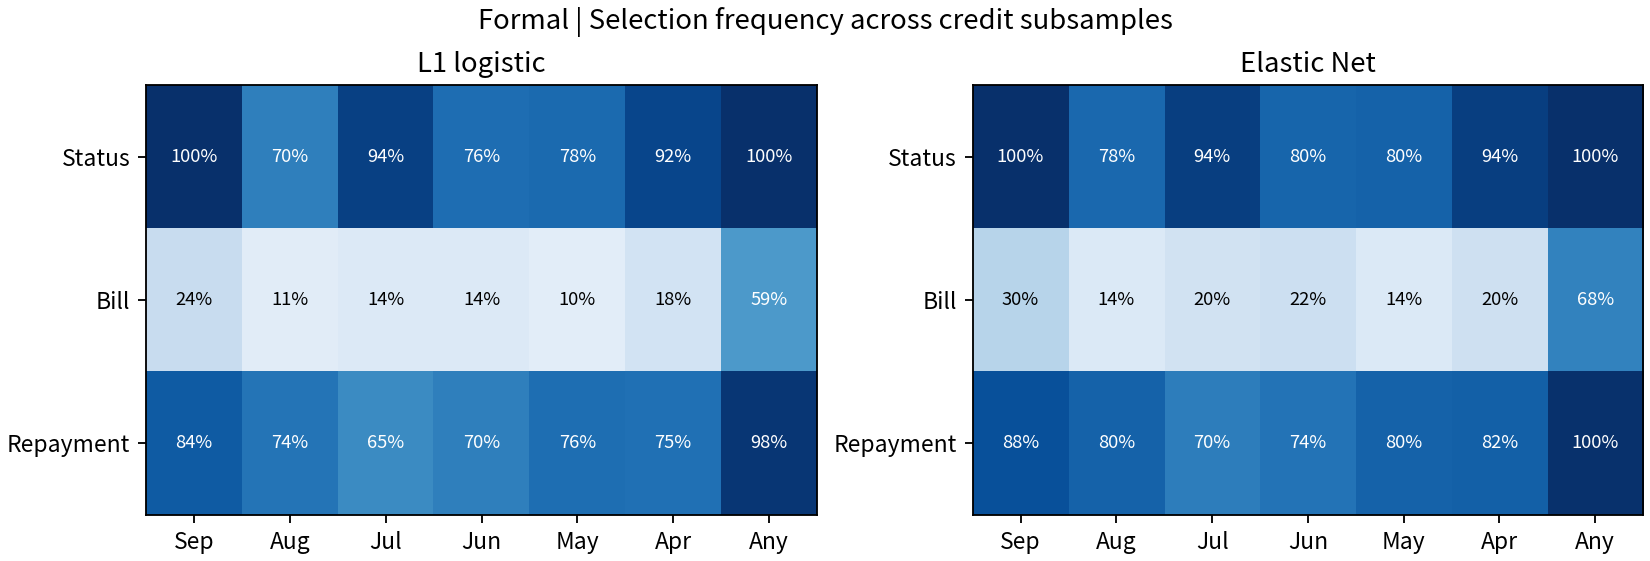
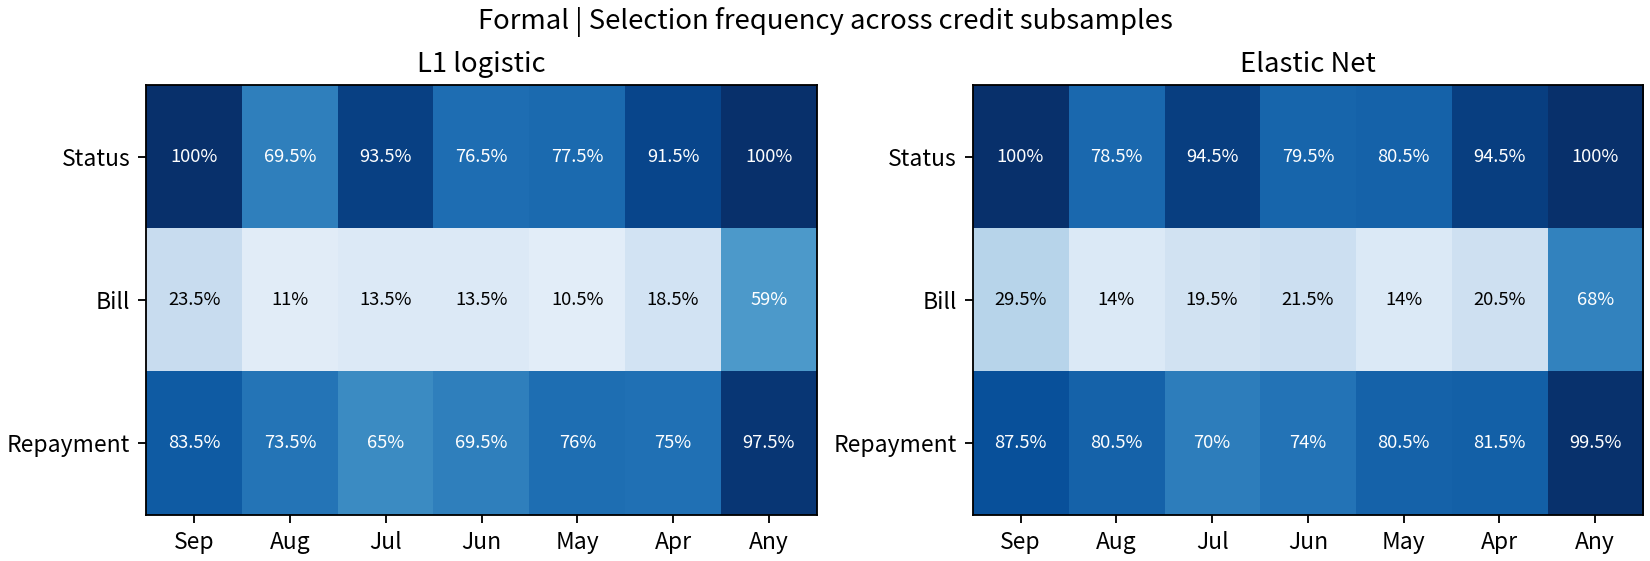
Report formal evidence, application wording and a reproducible reviewer handoff

diff --git a/src/package_records.py b/src/package_records.py
@@ -29,9 +29,37 @@ def package(stage):
     atomic_json(out / "archive.json", dict(file=archive.name, rows=len(paths), sha256=digest))
 
 
+def restore(stage):
+    out=ROOT / "results/formal" / stage
+    meta=json.loads((out/"archive.json").read_text())
+    file=out/"fits.jsonl.gz"
+    if hashlib.sha256(file.read_bytes()).hexdigest()!=meta["sha256"]:
+        raise ValueError(f"{stage}: archive checksum mismatch")
+    seen=set()
+    with gzip.open(file,"rt") as stream:
+        for line in stream:
+            rec=json.loads(line)
+            i=int(rec["pair"])
+            name=f"p{i:03d}.json" if stage.startswith("credit") else f"c{int(rec['condition']):02d}-p{i:03d}.json"
+            if name in seen:
+                raise ValueError(f"Duplicate record: {name}")
+            seen.add(name)
+            path=out/"records"/name
+            if path.exists():
+                old=json.loads(path.read_text())
+                old.pop("seconds",None)
+                if old!=rec:
+                    raise ValueError(f"Existing fit differs from the archive: {path}")
+            else:
+                atomic_json(path,rec)
+    if len(seen)!=meta["rows"]:
+        raise ValueError(f"{stage}: archive count mismatch")
+
+
 if __name__ == "__main__":
     ap = argparse.ArgumentParser()
     ap.add_argument("--stage", choices=(*STAGES, "all"), default="all")
-    stage = ap.parse_args().stage
-    for name in STAGES if stage == "all" else (stage,):
-        package(name)
+    ap.add_argument("--restore",action="store_true",help="Unpack published records for rebuilding tables and plots.")
+    args=ap.parse_args()
+    for name in STAGES if args.stage=="all" else (args.stage,):
+        (restore if args.restore else package)(name)

diff --git a/src/summarize.py b/src/summarize.py
@@ -165,7 +165,7 @@ def sim_plot(s,out,label):
             if z.empty: continue
             x=np.arange(len(z))
             color=COLORS[method]
-            ax[0,j].plot(x,z.rmse_q50,"o-",color=color,label=method.title())
+            ax[0,j].plot(x,z.rmse_q50,"o-",color=color,label="Elastic Net" if method=="elastic" else method.title())
             if method=="ridge":continue
             ax[1,j].plot(x,z.j_var_mean,"o-",color=color)
             ax[1,j].plot(x,z.j_group_mean,"s--",color=color)
@@ -243,7 +243,9 @@ def credit_tables(folder,out,label):
             matrix.append([*z.monthly_rate,z.group_rate.iloc[0]])
         im=ax.imshow(matrix,vmin=0,vmax=1,cmap="Blues",aspect="auto")
         for i,z in enumerate(matrix):
-            for j,v in enumerate(z): ax.text(j,i,f"{v:.0%}",ha="center",va="center",color="white" if v>.56 else "black",fontsize=8)
+            for j,v in enumerate(z):
+                percent=f"{100*v:.1f}".rstrip("0").rstrip(".")+"%"
+                ax.text(j,i,percent,ha="center",va="center",color="white" if v>.56 else "black",fontsize=8)
         ax.set_xticks(range(7),MONTHS+["Any"]);ax.set_yticks(range(3),["Status","Bill","Repayment"])
         ax.set_title("Elastic Net" if m=="elastic" else "L1 logistic")
     fig.suptitle(label+" | Selection frequency across credit subsamples")

diff --git a/docs/report.md b/docs/report.md
@@ -1,0 +1,69 @@
+# How Stable Is Lasso Feature Selection When Prediction Errors Are Similar?
+
+**A paired-sample simulation and a credit-default application.** Low variable overlap was common even with independent features. Near-collinear signals changed *why* the models disagreed. At training size 80, Lasso substituted disjoint sets of predictors in 5 of 600 jointly detected signal blocks at correlation 0.9 and 244 of 600 at 0.99. Elastic Net recovered more true predictors in the latter condition and selected substantially larger models.
+
+## Design and estimands
+
+We generated 120 standardized Gaussian predictors in 24 independent blocks of five. The middle variable of each of three blocks had coefficient one. Noise was independent with SD one. The three signal variables are independent, so signal variance is three at every within-block correlation. Population RMSE is one for the true regression function and two for the predictor that always returns zero.
+
+Each condition had a target of 200 independent training pairs. Each sample received its own five-fold CV, with fold-trained standardization and validation MSE. Lasso, Elastic Net (L1 fraction 0.5) and the Ridge prediction baseline shared samples and folds. After transforming slopes and intercepts back to the generating scale, we evaluated population MSE as $1+\hat a^2+(\hat\beta-\beta)^T\Sigma(\hat\beta-\beta)$. The primary event required an RMSE gap of at most 0.05 and variable Jaccard at most 0.5. We also retained both marginal probabilities, low overlap conditional on close RMSE, group Jaccard, model size and truth recovery. Wilson intervals use independent sample pairs. Method contrasts and within-block swap intervals resample whole pairs. Pilot fits were excluded from formal estimates. [Protocol](protocol.md) · [Frozen settings](../config/frozen.json)
+
+For standardized $X_1,X_2$ with correlation $\rho$, replacing $bX_1$ by $bX_2$ adds
+
+$$
+\mathbb E[(bX_1-bX_2)^2]=b^2(1+1-2\rho)=2b^2(1-\rho)
+$$
+
+to population MSE, since the independent noise cross-term has expectation zero. At $b=1$ and $\rho=0.99$, total RMSE rises from 1 to about 1.010. This calculation holds the slope fixed. The experiment measures how often separately tuned finite-sample fits actually substitute variables, while allowing changes in slopes, intercepts and noise selections. [Derivation](mechanism.md)
+
+## Correlation changes the source of disagreement
+
+![Formal simulation across the two sample sizes](../results/formal/main/simulation.png)
+
+**Figure 1.** Columns give training sample size. Rows show median population RMSE, mean variable and group Jaccard, and the joint-event proportion with a 95% Wilson interval. Each equal-correlation cell contains 200 independent pairs. The dotted reference is oracle RMSE. The four correlation levels are shown as ordered categories. [Full condition table including both mechanism controls](../results/formal/condition_summary.md)
+
+At $n=80$, the Lasso joint event occurred in 87/200, 88/200, 107/200 and 114/200 pairs at correlations 0, 0.5, 0.9 and 0.99. The prespecified 0.9-minus-0 contrast was **+10.0 percentage points** (95% interval +0.2 to +19.5). Among pairs with close RMSE, low overlap occurred in 87/88 at zero correlation and 107/107 at 0.9. The change in joint frequency therefore mainly tracked how often the RMSEs were close. At $n=240$ the four joint counts were 194, 190, 188 and 196 out of 200. The prespecified contrast was **−3.0 points** (−7.5 to +1.2). The binary event was near its ceiling. Shrinking the RMSE tolerance to 0.02 yielded 123/200 versus 116/200 at 0 and 0.9 in this larger sample. [Endpoint contrasts](../results/formal/main/endpoint_contrasts.csv) · [Threshold sensitivities](../results/formal/main/thresholds.csv)
+
+At $n=80$, mean Lasso RMSE improved from 1.134 at independence to 1.097 at 0.99. Mean Ridge RMSE changed from 1.707 to 1.210. Even among the close-risk Lasso pairs at 0.99, the median root-mean-square difference between the two predictions **on the same new subject** was 0.455, in response units. Similar average errors can coexist with materially different individual predictions. [Continuous outcomes](../results/formal/main/conditions.csv) · [Prediction disagreement](../results/formal/mechanisms.csv)
+
+| Lasso at $n=80$ | Joint event | Complete swaps / jointly hit signal blocks | Mean differing variables, signal / null blocks |
+|---|---:|---:|---:|
+| All blocks independent | 87/200 | 0/600 | 2.04 / 19.28 |
+| Only signal blocks at 0.9 | 74/199 | 4/597 | 4.39 / 18.57 |
+| Only null blocks at 0.9 | 95/200 | 0/600 | 3.22 / 12.56 |
+| All blocks at 0.9 | 107/200 | 5/600 | 4.67 / 13.30 |
+| All blocks at 0.99 | 114/200 | 244/600 | 6.09 / 11.73 |
+
+When both fits hit a signal block, a complete swap means their selected members have empty intersection. The selective-correlation controls show why low Jaccard alone has limited diagnostic value. At independence, most disagreements came from null blocks. At 0.99, 40.7% of jointly hit signal blocks underwent a complete swap (pair-bootstrap interval 36.5–44.7%). A further 302/600 had partially overlapping memberships. Four of the 54 identical memberships contained only proxy variables. All three signal groups were jointly detected in every pair at 0.99, yet whole-model mean group Jaccard was only 0.368 because null groups also entered. At $n=240$, the complete-swap rate at 0.99 fell to 65/600 (10.8%). [Block counts](../results/formal/mechanisms.csv) · [Per-variable selection frequencies](../results/formal/main/variable_frequencies.csv)
+
+## Elastic Net and robustness
+
+At $n=80,\rho=0.99$, mean variable Jaccard was **0.126 for Lasso and 0.420 for Elastic Net**. The paired increase was 0.295 (95% bootstrap interval 0.279–0.311). Mean RMSEs were 1.097 and 1.104, mean sizes 11.35 and 26.82, true-variable recalls 61.75% and 99.25%, and mean false inclusions 9.50 and 23.84. At independence, Elastic Net had slightly lower variable Jaccard. Across the ten conditions only one of 1,999 pairs satisfied the prespecified requirement for similar cross-method RMSE and model size on **both** samples. The data provide too little overlap to estimate a stability advantage at comparable sparsity. [Paired method comparisons](../results/formal/main/method_differences.csv) · [Elastic Net grouping effect](https://doi.org/10.1111/j.1467-9868.2005.00503.x)
+
+| Prespecified check at $n=80$ | Lasso result | Interpretation |
+|---|---|---|
+| Independent seeds, 0 versus 0.9 | 84/200 versus 101/200 joint events. Difference +8.5 points (−1.3 to +18.0) | The direction repeated, with uncertainty spanning zero. |
+| Independent-pilot fixed penalties | 96/200 versus 118/200 joint events. At 0.99 there were 236/600 complete swaps. | The main direction and near-collinear swaps persisted with tuning variability removed within each condition. |
+| AR(1) blocks with mean correlation 0.9 | Adjacent correlation 0.9480. Joint events 107/200, complete swaps 23/600. Equicorrelated blocks gave 107/200 and 5/600. | Holding the average correlation fixed preserved the event count here, while the position-dependent correlation structure changed substitution frequency. |
+
+The two correlation-specific controls were run at 0.9. Decompositions at 0.99 describe the observed blocks in that design. Conclusions concern this sparse Gaussian signal, CV rule and mixing fraction. [Independent replication](../results/formal/replication/endpoint_contrasts.csv) · [Fixed penalties](../results/formal/fixed/conditions.csv) · [AR(1) results](../results/formal/ar/conditions.csv)
+
+## Credit default on held-out customers
+
+Twenty-four thousand customers formed the development pool and 6,000 formed the fixed stratified test set. Every pair used two disjoint, stratified training subsamples of 3,000 customers. Different pairs could reuse customers. Eighteen predictors covered six months of bills, repayment amounts and status. The main encoding collapsed nonpositive status codes to zero and modeled positive grades linearly on log odds. The workbook includes −2 and 0, whose meanings the official dictionary leaves unspecified. The development-only pilot fixed the close-log-loss threshold at 0.0039266281 before test evaluation. September and August bills had development Spearman correlation 0.912. [Official dataset and dictionary](https://doi.org/10.24432/C55S3H) · [Audit and column mapping](../results/pilot/credit_data_audit.json)
+
+| Model | Mean test log loss | Mean Brier score | Mean size | Mean variable / group Jaccard | Joint events / close pairs |
+|---|---:|---:|---:|---:|---:|
+| Training prevalence | 0.52838 | 0.17225 | 0 | — | — |
+| L1 logistic | 0.44424 | 0.13800 | 10.42 | 0.589 / 0.813 | 19/87 |
+| Elastic Net logistic | 0.44398 | 0.13797 | 11.21 | 0.632 / 0.843 | 9/86 |
+
+![Formal credit selection frequencies](../results/formal/credit/credit.png)
+
+**Figure 2.** Cells give selection frequencies across 200 fits. “Any” means at least one month in that family. Both methods included some repayment-status information in every fit. The status months changed in 85/100 L1 pairs and 78/100 Elastic Net pairs. Bills entered 59% of L1 fits. With raw numeric status codes, L1 mean log loss worsened to 0.46653, bill inclusion rose to 98%, and mean group Jaccard rose to 0.977. This coding sensitivity illustrates how a three-group overlap measure approaches one when nearly every group enters. Shared customers and a common test set make these descriptive comparisons within this dataset. The default label permits predictive evaluation. Variable-selection truth is available only in the simulation. [Credit results and coding sensitivity](../results/formal/credit_models.csv)
+
+## Verification and limitations
+
+One Lasso path in the signal-only correlation control failed the frozen convergence rule after its retry. That condition uses 199 common valid pairs for every method. All other stages accounted for their full planned samples. None of the main sparse-model pairs was double-empty. Independent blockwise calculations reproduced all formal primary counts and RMSEs, and independent scoring reproduced the credit test losses and Brier scores. Two complete 200-pair conditions and one pair from each of the other four stages were re-fitted from their archived seeds. [Failure ledger](../results/formal/main/run.json) · [Metric audit](../results/formal/metric_audit.json) · [Replay record](../results/formal/replay.json)
+
+Across the 48 prespecified checks against 100,000 test observations, the largest absolute MSE discrepancy was 3.73 Monte Carlo standard errors (Ridge, $n=80$, independent features). An **exploratory numerical check** on that same fit used a different Gaussian generator and one million fresh observations. It gave MSE 2.7168 versus analytic MSE 2.7217, a difference of −1.28 standard errors. Both checks are retained. [Original checks](../results/formal/main/analytic_checks.csv) · [Exploratory check](../results/formal/exploratory_mse_check.json)

diff --git a/README.md b/README.md
@@ -1,18 +1,36 @@
 # How Stable Is Lasso Feature Selection When Prediction Errors Are Similar?
 
-A paired-sample simulation separates predictive risk, variable stability and recovery of a known signal. An application to UCI credit default compares selected months across customer subsamples. The protocol is in [docs/protocol.md](docs/protocol.md). The initial settings are in [config/pilot.json](config/pilot.json).
+How often do two independent training samples yield models with similar prediction errors and different selected variables? A Gaussian simulation measures predictive risk, selection stability and recovery of known signals. A credit-default application tests the same diagnostics with 18 observed monthly predictors.
 
-## Current milestone
+## Findings
 
-The pilot is complete. Both figures and aggregate tables are available below. Formal results require a configuration freeze after Junyang reviews the pilot.
+- **Most of the low overlap at independence came from noise variables.** At training size 80 and zero correlation, the Lasso supports differed on an average of 19.28 null-block variables and 2.04 signal-block variables. At correlation 0.99, complete within-block substitution occurred in 244 of 600 jointly detected signal blocks.
+- **Sample size changed the headline result.** The frequency of close population RMSE and low variable overlap rose from 43.5% to 53.5% between correlations 0 and 0.9 at n = 80. At n = 240 it changed from 97.0% to 94.0%.
+- **Elastic Net selected larger models.** At n = 80 and correlation 0.99 its mean variable Jaccard was 0.420 versus 0.126 for Lasso. Mean sizes were 26.82 and 11.35. Only one pair across the ten conditions met the prespecified size/risk matching rule.
+- **Monthly selection varied on real credit data.** L1 logistic regression selected the repayment-status family in all 200 training fits but changed its selected status months in 85/100 pairs. Mean test log loss was 0.4442 versus 0.5284 for the training-prevalence baseline.
 
-## Data
+[Short report](docs/report.md) · [Condition table](results/formal/condition_summary.md) · [Credit case](results/formal/credit_models.csv) · [Human review](docs/review.md)
 
-I-Cheng Yeh. Default of Credit Card Clients. UCI Machine Learning Repository. DOI [10.24432/C55S3H](https://doi.org/10.24432/C55S3H), CC BY 4.0. Development and test observations remain in the research directory on the lab server. Only source code, configurations, audit summaries and aggregate results are shared in this repository.
+![Prediction and selection across independently trained models](results/formal/main/simulation.png)
 
-## Reproduce the pilot
+**Figure 1.** Each column corresponds to a training size. The upper row shows median population RMSE with oracle RMSE at one. The middle row gives mean variable and group Jaccard. The lower row shows the probability of an RMSE gap at most 0.05 and variable Jaccard at most 0.5, with a 95% Wilson interval. The horizontal positions represent four ordered correlation settings.
 
-Use Python 3.11 (the recorded run used 3.11.4) from the repository root. Install the pinned numerical and workbook packages in an isolated environment. The simulation and credit commands replace the corresponding deterministic pilot outputs.
+## Study record
+
+| Milestone | Evidence |
+|---|---|
+| Design and pilot | [Protocol](docs/protocol.md), [pilot review](docs/pilot.md), [two-variable derivation](docs/mechanism.md) |
+| Freeze before formal fitting | [Settings](config/frozen.json), [freeze commit](https://github.com/crustypan/lasso-selection-stability/commit/38c96dca752798d113634467eb8249596a33424a) |
+| Primary and mechanism results | [Complete-pair ledger](results/formal/main/run.json), [conditional probabilities and sensitivities](results/formal/main/thresholds.csv), [block-level explanations](results/formal/mechanisms.csv), [method comparisons](results/formal/main/method_differences.csv) |
+| Robustness | [Independent seeds](results/formal/replication/endpoint_contrasts.csv), [pilot-fixed penalties](results/formal/fixed/conditions.csv), [AR(1) blocks](results/formal/ar/conditions.csv) |
+| Application | [Credit figure](results/formal/credit/credit.png), [monthly frequencies](results/formal/credit/credit_months.csv), [raw-encoding comparison](results/formal/credit_models.csv) |
+| Verification | [Independent metric calculations](results/formal/metric_audit.json), [404 pair replays](results/formal/replay.json), [exploratory follow-up to a test-set discrepancy](results/formal/exploratory_mse_check.json) |
+
+The primary simulation targeted 2,000 pairs across eight main conditions and two controls. All 1,600 main-condition pairs completed. One fit failed in the signal-only correlation control, giving 199/200 valid pairs in that condition and 1,999/2,000 overall. Fixed penalties used the same training samples and folds. Independent replicates used new seeds. The three prespecified robustness stages completed 2,000, 400 and 200 pairs, respectively. Each credit encoding completed 100 pairs.
+
+## Reproduce
+
+Use Python 3.11 from the repository root. The recorded run used Python 3.11.4. Numerical packages, workbook reader and plotting versions are pinned. The sources derive seeds from the stage, condition, pair, sample and purpose. The formal run used eight worker processes with one BLAS thread per worker. Two workers are sufficient for the commands below.
 
 ```sh
 python3.11 -m venv .venv
@@ -20,22 +38,35 @@ python3.11 -m venv .venv
 export OPENBLAS_NUM_THREADS=1 OMP_NUM_THREADS=1 MKL_NUM_THREADS=1
 export MPLCONFIGDIR="$PWD/work/mpl"
 .venv/bin/python src/credit_data.py
+```
+
+**Rebuild published tables and figures from the archived coefficients.** Each stage includes a compressed JSON-lines file containing seeds, original-scale coefficients, intercepts and solver diagnostics. The restore command verifies SHA-256 and unpacks records under that stage.
+
+```sh
+.venv/bin/python src/package_records.py --restore
+.venv/bin/python src/formal_tables.py
+.venv/bin/python src/review_tables.py
+.venv/bin/python src/audit_results.py
+.venv/bin/python src/verify_formal.py
+```
+
+**Refit the entire study in a fresh clone.** Start after environment setup and data acquisition, before unpacking the formal archives. Stage ledgers support resuming interrupted work. Full-precision pilot medians and development-validation log loss determine the candidate settings. The committed frozen settings govern formal evaluation.
+
+```sh
 .venv/bin/python src/simulation.py --jobs 2
 .venv/bin/python src/credit.py --jobs 2
 .venv/bin/python src/summarize.py
-```
-
-The [pilot review](docs/pilot.md) reports the simulated and development-validation outcomes separately. See the [condition table](results/pilot/conditions.csv), [threshold counts and intervals](results/pilot/thresholds.csv), [matched method contrasts](results/pilot/method_differences.csv), [analytic risk checks](results/pilot/analytic_checks.csv), [credit data audit](results/pilot/credit_data_audit.json), and [monthly frequencies](results/pilot/credit_months.csv). Individual fitting seeds and coefficients are recorded in the per-pair JSON outputs. The validation criterion for the custom logistic optimizer is maximum first-order residual at most 5e-6 across the intercept and slopes. Raw and per-customer UCI data are excluded from version control.
-
-## Verification and formal commands
-
-The [derivation](docs/mechanism.md) connects prediction risk to proxy substitution. To repeat the saved high-correlation simulation pair and a credit validation pair and compare the logistic solution to an independent implementation, run `.venv/bin/python src/verify_pilot.py`. Then run `.venv/bin/python src/prepare_freeze.py` to regenerate [the candidate settings](config/formal-candidate.json) from the full-precision pilot fits. The [replay record](results/pilot/replay_check.json) reports the checks.
-
-After Junyang's review, save the approved settings as `config/frozen.json` and commit that file before evaluation. The formal commands are prepared for that milestone.
-
-```sh
+.venv/bin/python src/verify_pilot.py
+.venv/bin/python src/prepare_freeze.py
 .venv/bin/python src/formal.py --stage all --jobs 2
 .venv/bin/python src/formal_tables.py
+.venv/bin/python src/review_tables.py
+.venv/bin/python src/package_records.py
+.venv/bin/python src/audit_results.py
+.venv/bin/python src/verify_formal.py --whole-condition --jobs 2
+.venv/bin/python src/check_audit_outlier.py
 ```
 
-Formal stages are the main simulation, the same samples with pilot-fixed penalties, independent replication at n=80, AR(1) blocks with matched average correlation, credit and credit with raw status codes. Outputs use separate stage directories, atomic pair files, a configuration hash and a ledger of failed pairs. The proposed settings specify 200 simulation pairs per condition/replication, 200 AR pairs, and 100 credit pairs. Each formal credit pair uses the same clients and folds in both encodings. The threshold remains calibrated on the pilot validation set.
+## Credit data and license
+
+I-Cheng Yeh (2009), *Default of Credit Card Clients*, UCI Machine Learning Repository, DOI [10.24432/C55S3H](https://doi.org/10.24432/C55S3H), [CC BY 4.0](https://creativecommons.org/licenses/by/4.0/). The program downloads the original UCI archive and verifies the workbook against its frozen SHA-256 before formal fitting. Derived inputs retain the six monthly bills, repayments and repayment-status fields. The primary status encoding floors nonpositive codes at zero. The raw-code sensitivity uses the same clients, folds and test set. ID is used for customer-level checks and removed from model inputs. Customer records and ID splits are stored in the server project and excluded from Git. [Data audit, version, month mapping and special-code counts](results/pilot/credit_data_audit.json)

diff --git a/docs/review.md b/docs/review.md
@@ -1,0 +1,18 @@
+# Junyang's research review
+
+The frozen configuration, model fits, figures, formal report and computational checks are complete. Junyang selected the question and authorized the frozen experiment. Personal review of the formal evidence remains open.
+
+1. **Check the design.** From the three nonzero coefficients and block independence, derive the signal variance as 3 at every correlation. Identify the two extra n = 80 conditions where only the signal blocks or only the null blocks are correlated. [Protocol](protocol.md) · [Frozen configuration](../config/frozen.json)
+2. **Read the main figure alongside its counts.** Inspect the lower row for both sample sizes. Use the condition table to write down the high-minus-low correlation contrast at n = 80 and at n = 240. Check the numerators for low overlap conditional on close risk. [Main figure](../results/formal/main/simulation.png) · [Condition table](../results/formal/condition_summary.md)
+3. **Reproduce a robustness result.** In the repository root on the lab server, run the commands below. They read the frozen settings and published archives and refit in temporary directories. Compare the independent-seed endpoint estimate and its interval with the main estimate. The full option repeats all 200 pairs at n = 80 and correlation 0.9 in both runs, plus four specified pairs from the other stages.
+4. **Explain the distinction in your own words.** Why can two predictors with close population RMSE both select an incorrect proxy? Use the 54 identical memberships and the four identical proxy-only memberships at n = 80, correlation 0.99 to explain which result establishes correctness. Then explain what the credit labels let you check. [Mechanism counts](../results/formal/mechanisms.csv)
+
+```sh
+export OPENBLAS_NUM_THREADS=1 OMP_NUM_THREADS=1 MKL_NUM_THREADS=1
+export MPLCONFIGDIR="$PWD/work/mpl"
+.venv/bin/python src/verify_formal.py --whole-condition --jobs 2
+cat results/formal/main/endpoint_contrasts.csv
+cat results/formal/replication/endpoint_contrasts.csv
+```
+
+The assistant verified the original six stages, independently rescored the held-out credit predictions, and reran 404 selected formal pair records. Junyang's own execution, explanation and public-release decision are reserved for his review.

diff --git a/docs/cv-drafts.md b/docs/cv-drafts.md
@@ -1,0 +1,16 @@
+# CV wording for Junyang's review
+
+The role recorded here is selection of the research question and approval of the study design. The assistant implemented and ran the code. Personal replication and interpretation can be added after Junyang completes them.
+
+## Statistics
+
+- Selected the research question and approved a paired-sample simulation design with 120 predictors in 24 blocks, two training sizes, and independently tuned Lasso and Elastic Net models across 10 conditions.
+- Quantified complete Lasso proxy substitution in 5/600 jointly detected signal blocks at correlation 0.90 and 244/600 at 0.99 (n = 80), while the larger-sample joint instability rate stayed near its ceiling.
+
+## Alternative emphases
+
+- **DSML.** Compared predictive risk with feature reproducibility under resampling. At n = 80 and correlation 0.99, Elastic Net raised mean variable Jaccard from 0.126 to 0.420 and mean model size from 11.35 to 26.82.
+- **Mathematics.** Connected the excess prediction risk from a correlated proxy, 2b²(1 − ρ), to exact covariance-based population RMSE and observed support changes under equicorrelated and AR(1) block designs.
+- **Finance / FinTech.** Evaluated credit-default probabilities on 6,000 held-out customers. L1 logistic regression achieved mean log loss 0.444 versus 0.528 for prevalence, while selected repayment-status months varied in 85 of 100 training pairs.
+
+[Formal report](report.md) · [Review and replication instructions](review.md)
